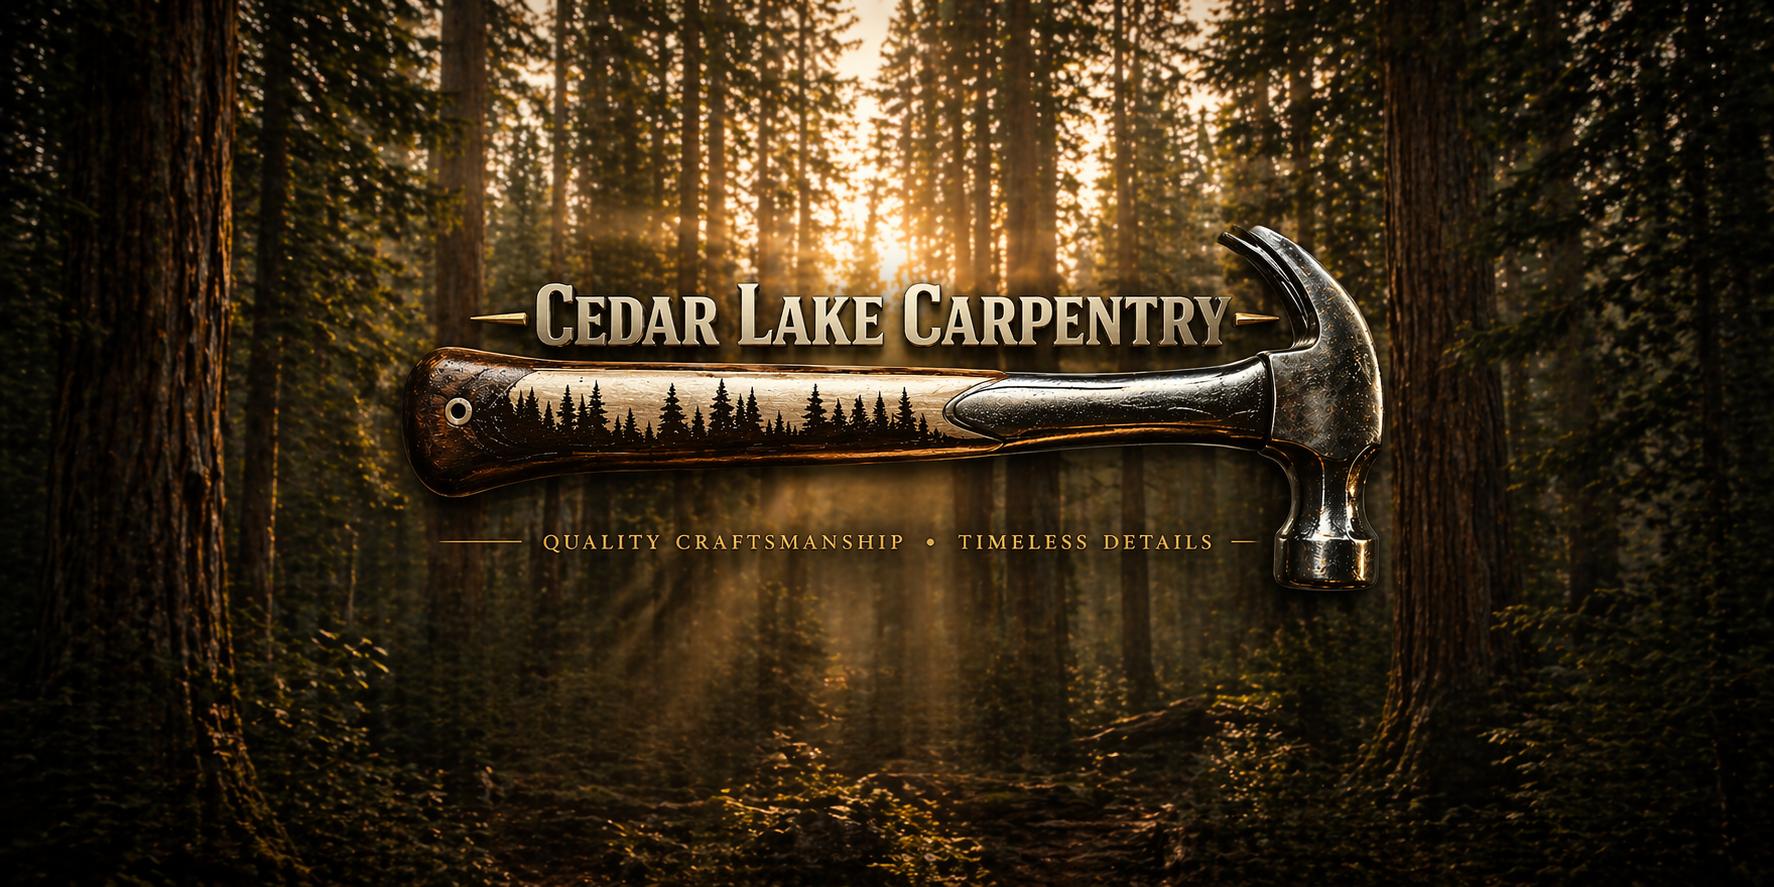
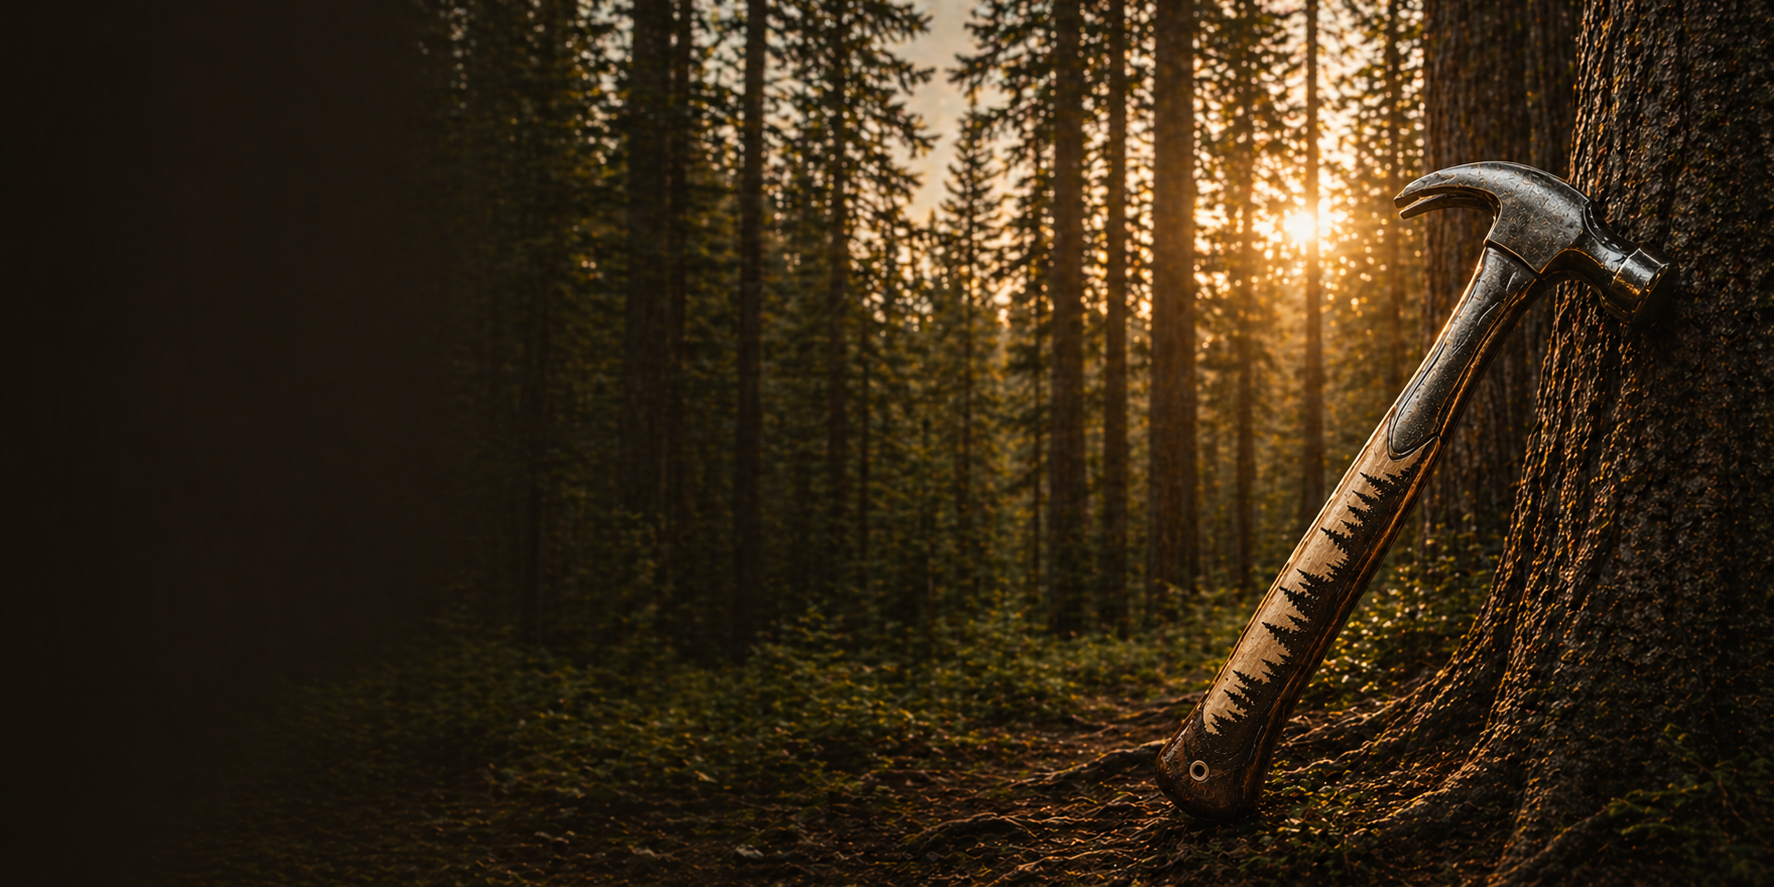
Fixing header name

diff --git a/src/app/component/Header.jsx b/src/app/component/Header.jsx
@@ -7,7 +7,7 @@ const Header = () => {
   return (
     <header className={styles.headerContainer}>
       <Image
-        src="/header2.png"
+        src="/header.png"
         alt="Cedar Lake Carpentry forest hammer hero"
         fill
         priority